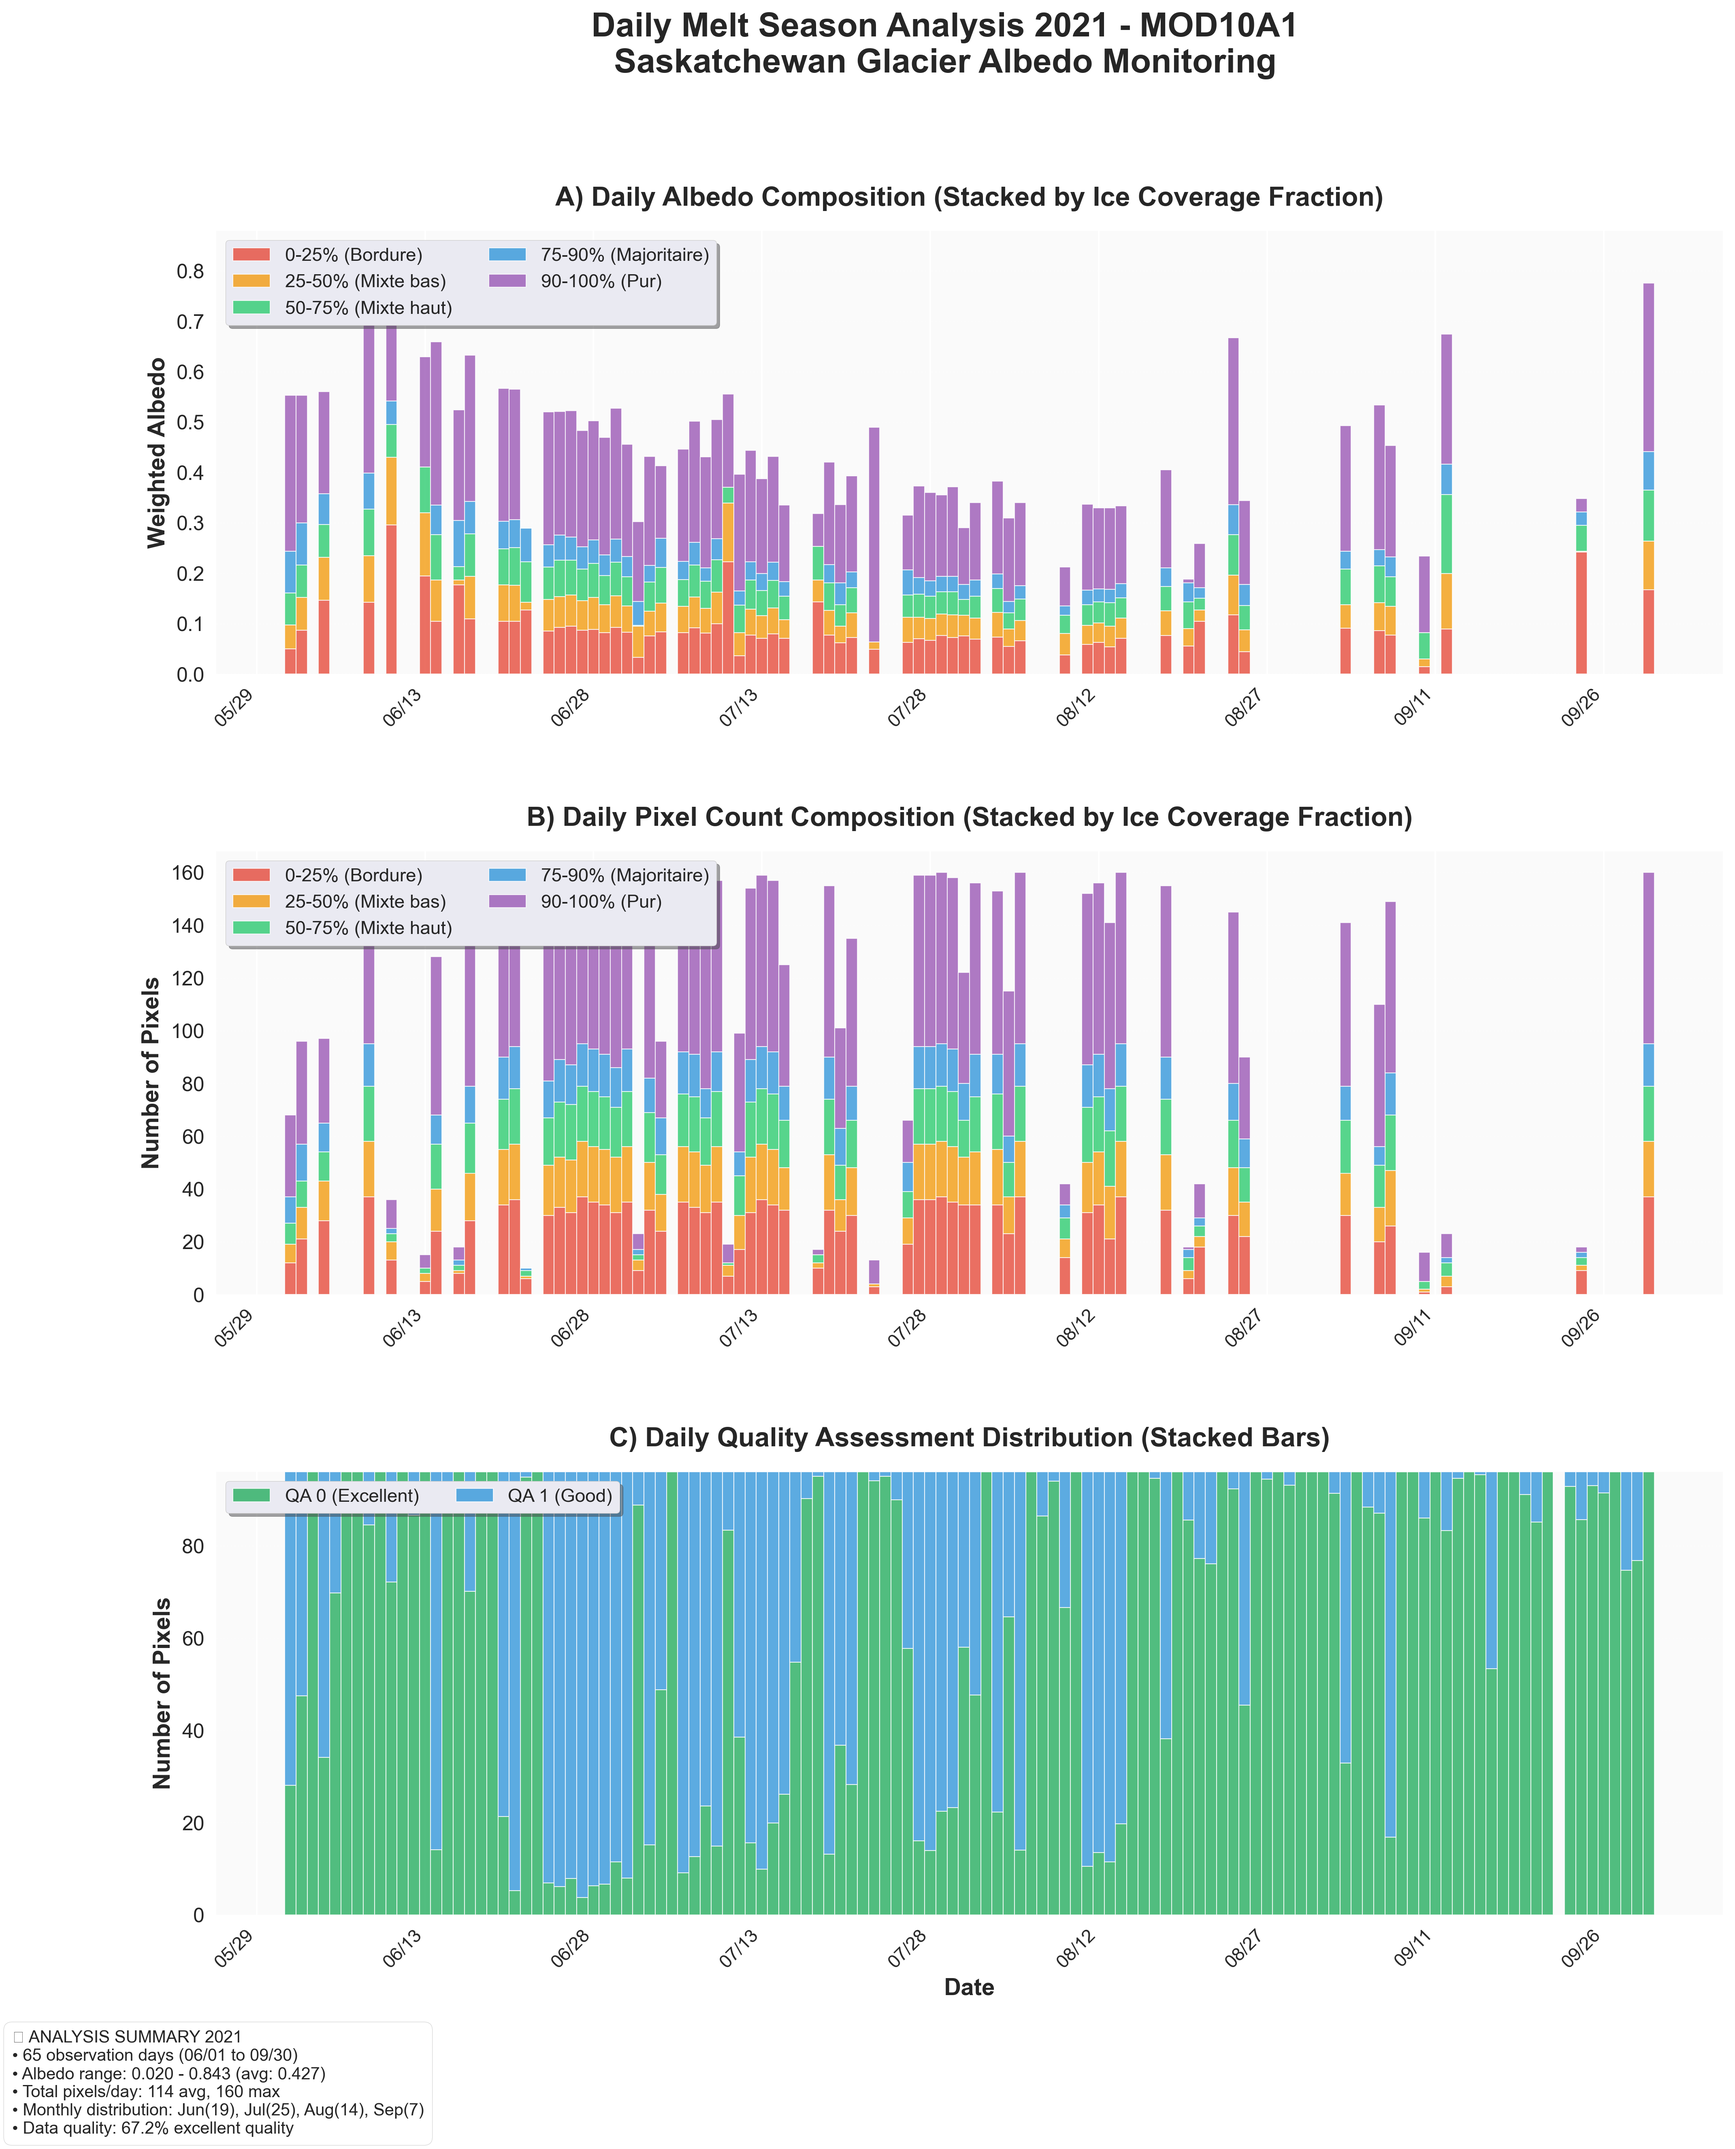
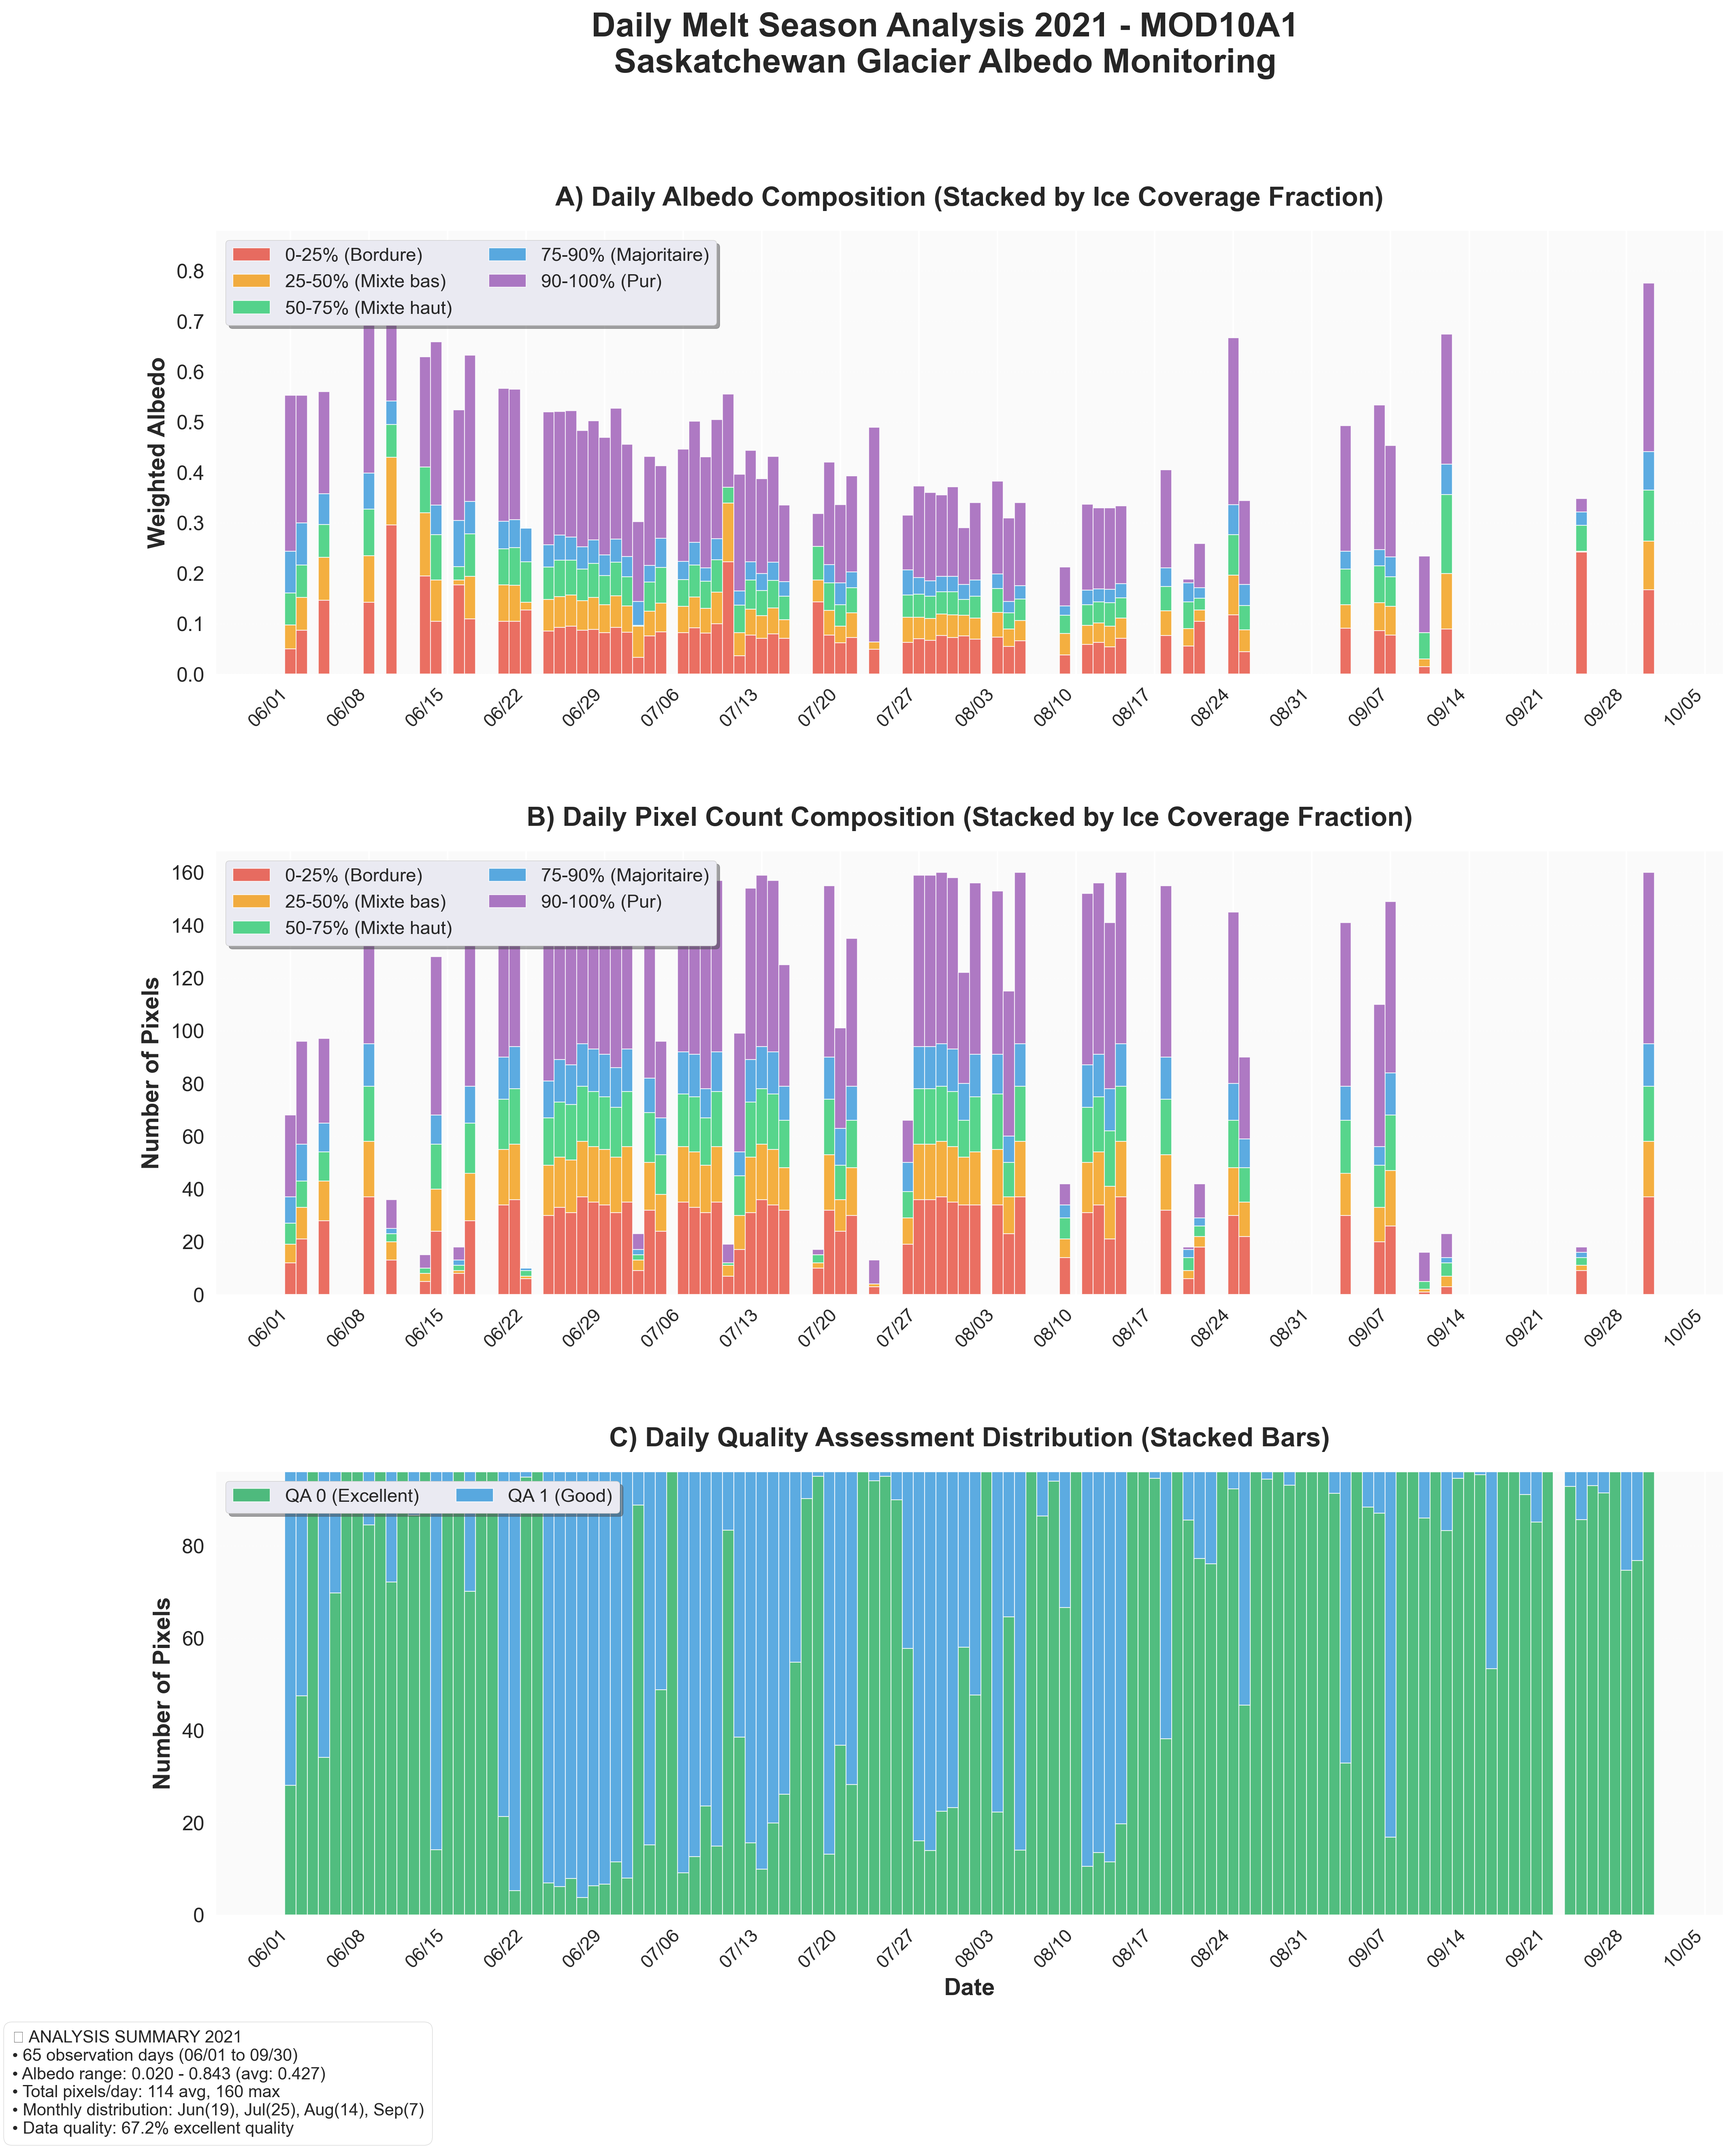
Add vertical grid lines and improve date axis readability for daily melt season plots
- Added major vertical grid lines at weekly intervals (gray, alpha=0.3)
- Added minor vertical grid lines every 3 days (light gray, alpha=0.15)
- Maintained horizontal grid lines for y-axis readability
- Enhanced date formatting with better tick label alignment
- Updated all MOD10A1 daily melt season plots with improved visual clarity

🤖 Generated with [Claude Code](https://claude.ai/code)

diff --git a/src/saskatchewan_albedo/visualization/pixel_plots.py b/src/saskatchewan_albedo/visualization/pixel_plots.py
@@ -159,7 +159,6 @@ class PixelVisualizer:
             ax.set_ylim(0, max(bottom_values) * 1.1 if len(bottom_values) > 0 else 1)
             ax.legend(loc='upper left', frameon=True, fancybox=True, shadow=True, 
                       fontsize=11, ncol=2)
-            ax.grid(True, alpha=0.4, linestyle=':', linewidth=0.8, axis='y')
             ax.set_facecolor('#fafafa')
             
             print(f"✅ Panel A: Barres empilées d'albédo quotidiennes pour {len(valid_dates)} jours")
@@ -715,12 +714,19 @@ class PixelVisualizer:
         for ax in axes:
             # Dates par semaine (tous les 7 jours)
             ax.xaxis.set_major_formatter(mdates.DateFormatter('%m/%d'))
-            ax.xaxis.set_major_locator(mdates.WeekdayLocator(interval=1))  # Toutes les semaines
+            locator = mdates.WeekdayLocator(interval=1)  # Toutes les semaines
+            ax.xaxis.set_major_locator(locator)
             ax.xaxis.set_minor_locator(mdates.DayLocator(interval=3))      # Marques mineures tous les 3 jours
             ax.tick_params(axis='x', rotation=45, labelsize=11)
             ax.tick_params(axis='y', labelsize=12)
             # Améliorer l'espacement des étiquettes
             plt.setp(ax.xaxis.get_majorticklabels(), ha='right')
+            
+            # Ajouter des lignes verticales légères aux positions des dates principales
+            ax.grid(True, which='major', axis='x', alpha=0.3, linestyle='-', linewidth=0.8, color='gray')
+            ax.grid(True, which='minor', axis='x', alpha=0.15, linestyle=':', linewidth=0.5, color='lightgray')
+            # Garder la grille horizontale existante
+            ax.grid(True, which='major', axis='y', alpha=0.4, linestyle=':', linewidth=0.8)
         
         # Create directory if it doesn't exist
         os.makedirs(save_dir, exist_ok=True)
